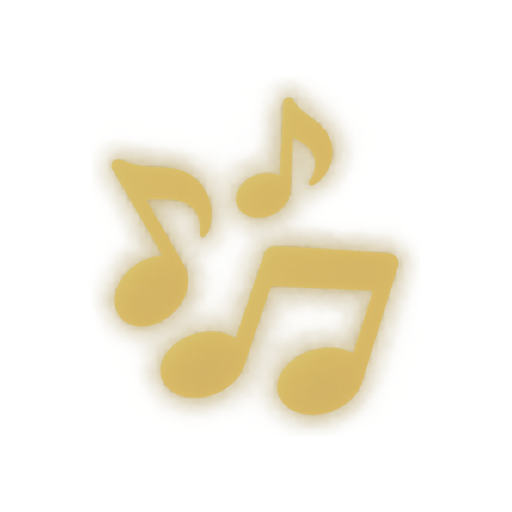
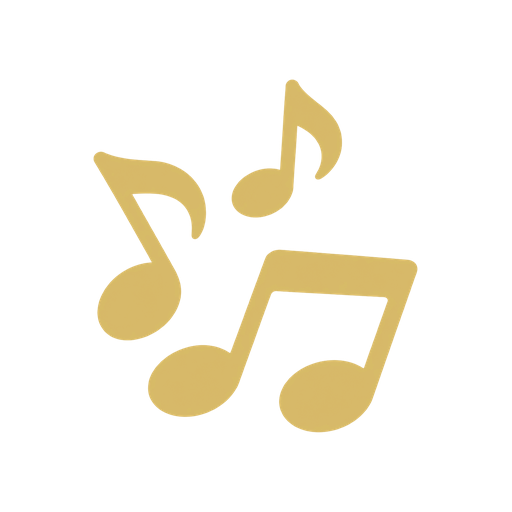
リズムアイコンの質感を調整

Changed region(s): [[0.1875, 0.1562, 0.8125, 0.8438]]

diff --git a/apps/cruise-port/practice-menu-app.js b/apps/cruise-port/practice-menu-app.js
@@ -66,12 +66,12 @@ import {
     MY_APPS_ICON_PRESETS,
     createMyAppsPresetGraphic,
     getMyAppsIconPreset
-} from './my-apps-icon-presets.js?v=1.0.2';
+} from './my-apps-icon-presets.js?v=1.0.3';
 import { initMetronome } from './metronome-app.js';
 import {
     applyVersionDisplay,
     reloadAppWithCacheBust
-} from './app-version.js?v=1.11.2';
+} from './app-version.js?v=1.11.3';
 import { initTuner } from './tuner-app.js?v=1.1.8';
 
 const elements = {

diff --git a/apps/cruise-port/my-apps-icon-presets.js b/apps/cruise-port/my-apps-icon-presets.js
@@ -26,7 +26,9 @@ const PRESET_DEFINITIONS = [
 export const MY_APPS_ICON_PRESETS = Object.freeze(PRESET_DEFINITIONS.map(([key, label, source]) => Object.freeze({
     key,
     label,
-    src: `./assets/my-app-icons/${key}.png`
+    src: key === 'rhythm'
+        ? './assets/my-app-icons/rhythm.png?v=0.11.3'
+        : `./assets/my-app-icons/${key}.png`
 })));
 
 const PRESET_BY_KEY = new Map(MY_APPS_ICON_PRESETS.map((preset) => [preset.key, preset]));

diff --git a/apps/cruise-port/my-apps-icon-workflow.js b/apps/cruise-port/my-apps-icon-workflow.js
@@ -5,7 +5,7 @@ import {
     updateMyApp
 } from './my-apps-store.js?v=6.0.0';
 import { isValidIconCrop } from './my-apps-crop.js?v=1.1.0';
-import { isKnownMyAppsIconPreset } from './my-apps-icon-presets.js?v=1.0.2';
+import { isKnownMyAppsIconPreset } from './my-apps-icon-presets.js?v=1.0.3';
 
 async function deleteIconBestEffort(iconStore, iconId) {
     if (!iconId || !iconStore?.deleteIcon) return;

diff --git a/apps/cruise-port/my-apps-store.js b/apps/cruise-port/my-apps-store.js
@@ -1,6 +1,6 @@
 import { isValidIconCrop } from './my-apps-crop.js?v=1.1.0';
 import { getKnownApp } from './my-apps-known-apps.js?v=1.3.0';
-import { isKnownMyAppsIconPreset } from './my-apps-icon-presets.js?v=1.0.2';
+import { isKnownMyAppsIconPreset } from './my-apps-icon-presets.js?v=1.0.3';
 
 export const MY_APPS_SCHEMA_VERSION = 6;
 export const MY_APPS_STORAGE_KEY = 'cruisePort.myApps';

diff --git a/apps/cruise-port/index.html b/apps/cruise-port/index.html
@@ -16,7 +16,7 @@
         };
     </script>
     <script src="../shared/pro-gate.js?v=19" defer></script>
-    <script type="module" src="./practice-menu-app.js?v=1.11.2"></script>
+    <script type="module" src="./practice-menu-app.js?v=1.11.3"></script>
 </head>
 <body>
     <div class="port-shell">
